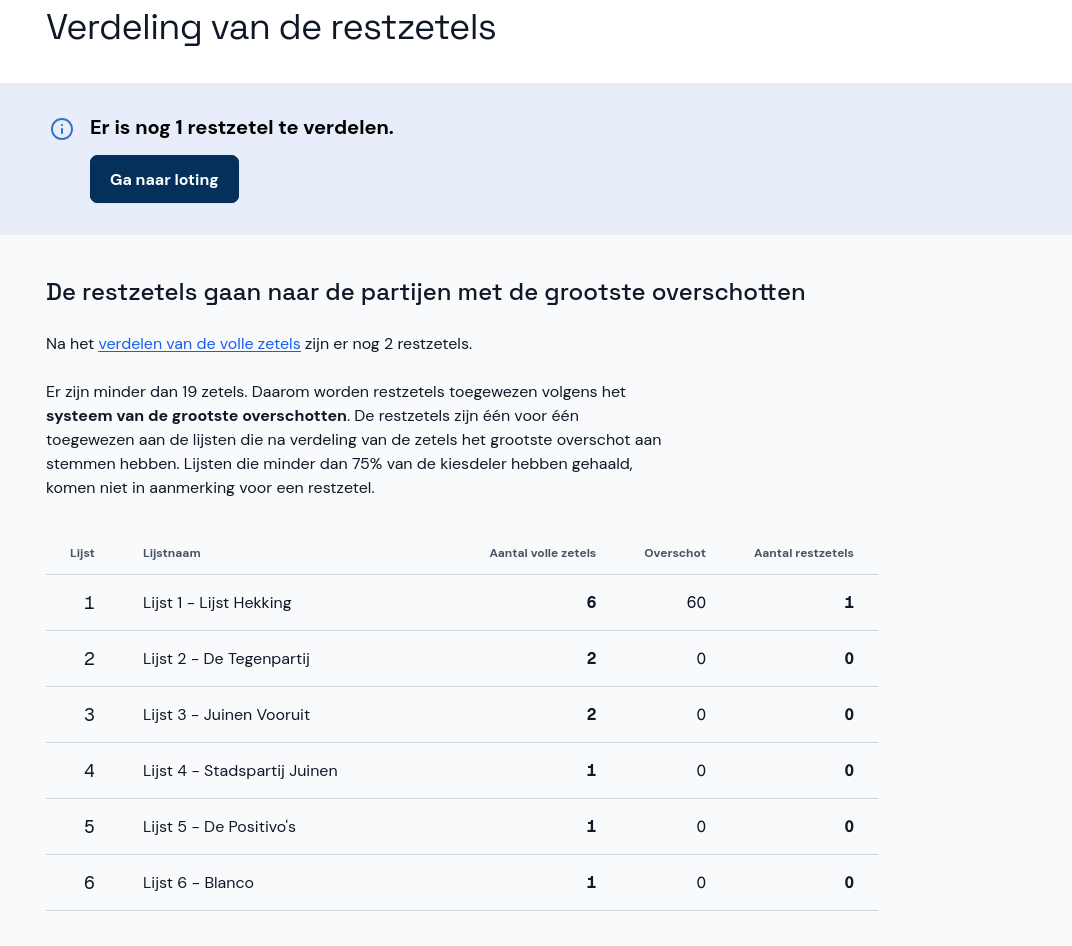
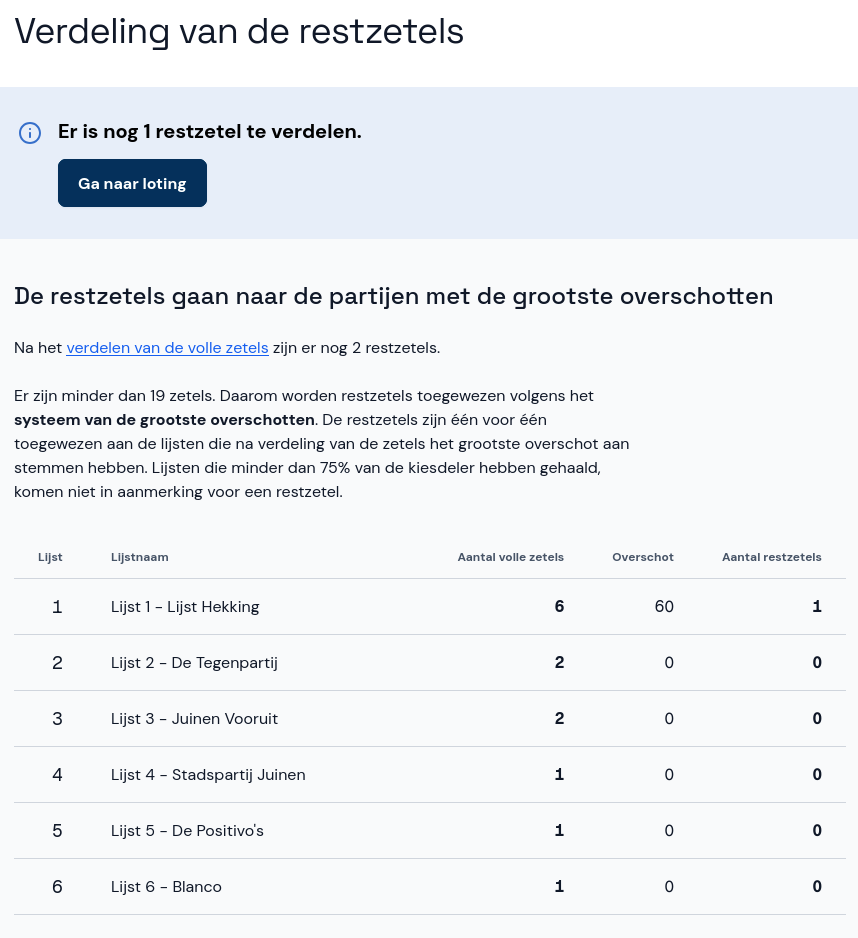
Loting - afbeeldingen gewijzigd
- Afbeelding grootste gemiddelden vervangen
- Afbeelding grootste overschotten vervangen
- Afbeelding afstaan restzetel toegevoegd
- Tekst afstaan restzetel toegevoegd en volgorde van tekst over loting iets gewijzigd

diff --git a/gebruikersdocumentatie/src/coordinator-csb/zitting-afronden/loting-pv.md b/gebruikersdocumentatie/src/coordinator-csb/zitting-afronden/loting-pv.md
@@ -8,7 +8,8 @@ In sommige gevallen kunnen niet alle restzetels automatisch worden toegewezen en
 
 ## Naar loting
 
-- Klik op **Naar loting** om de loting direct uit te voeren. De loting wordt uitgevoerd op papier, in aanwezigheid van alle leden van het centraal stembureau.
+- Klik op **Naar loting** om de loting direct uit te voeren. Voor meer details klik je eerst op **Details restzetelverdeling** en dan op **Ga naar loting**.
+- De loting vindt buiten Abacus plaats, in aanwezigheid van alle leden van het centraal stembureau.
 - Voer het resultaat van de loting in door het juiste keuzerondje te selecteren en klik op **Volgende**.
 - Herhaal de bovenstaande stappen voor alle te verdelen restzetels.
 
@@ -18,14 +19,16 @@ In sommige gevallen kunnen niet alle restzetels automatisch worden toegewezen en
 
 - Klik op **Details restzetelverdeling** om precies te zien hoe de restzetels worden toegewezen.
 - Bij het **systeem van de grootste gemiddelden** zie je voor elke ronde welk aantal stemmen per zetel elke partij heeft en aan welke lijst de zetel is toegekend. Er is loting nodig als alle (overige) partijen een gelijk aantal stemmen per zetel hebben.
-- Klik boven de tabel op **Ga naar loting** of onder de tabel op **Loting nodig** en voer de loting uit volgens de stappen in [Naar loting](#naar-loting).
 
 ![Details van de restzetelverdeling - grootste gemiddelden](./img/details-restzetel-gr-gem.png)
 
 - Bij het **systeem van de grootste overschotten** zie je aan welke partijen al een zetel is toegewezen op basis van het grootste overschot aan stemmen. Als alle (overige) partijen een gelijk overschot hebben, is loting nodig.
-- Klik bovenaan de pagina op **Ga naar loting** en voer de loting uit volgens de stappen in [Naar loting](#naar-loting).
 
 ![Details van de restzetelverdeling - grootste overschotten](./img/details-restzetel-gr-ov.png)
+
+- Ook kan loting noodzakelijk zijn omdat een lijst de volstrekte meerderheid van stemmen heeft gekregen, maar niet de volstrekte meerderheid aan zetels heeft. Er moet dan een restzetel worden afgestaan.
+
+![Details van de restzetelverdeling - restzetel afstaan](./img/details-restzetel-afstaan.png)
 
 ## Naar proces-verbaal
 